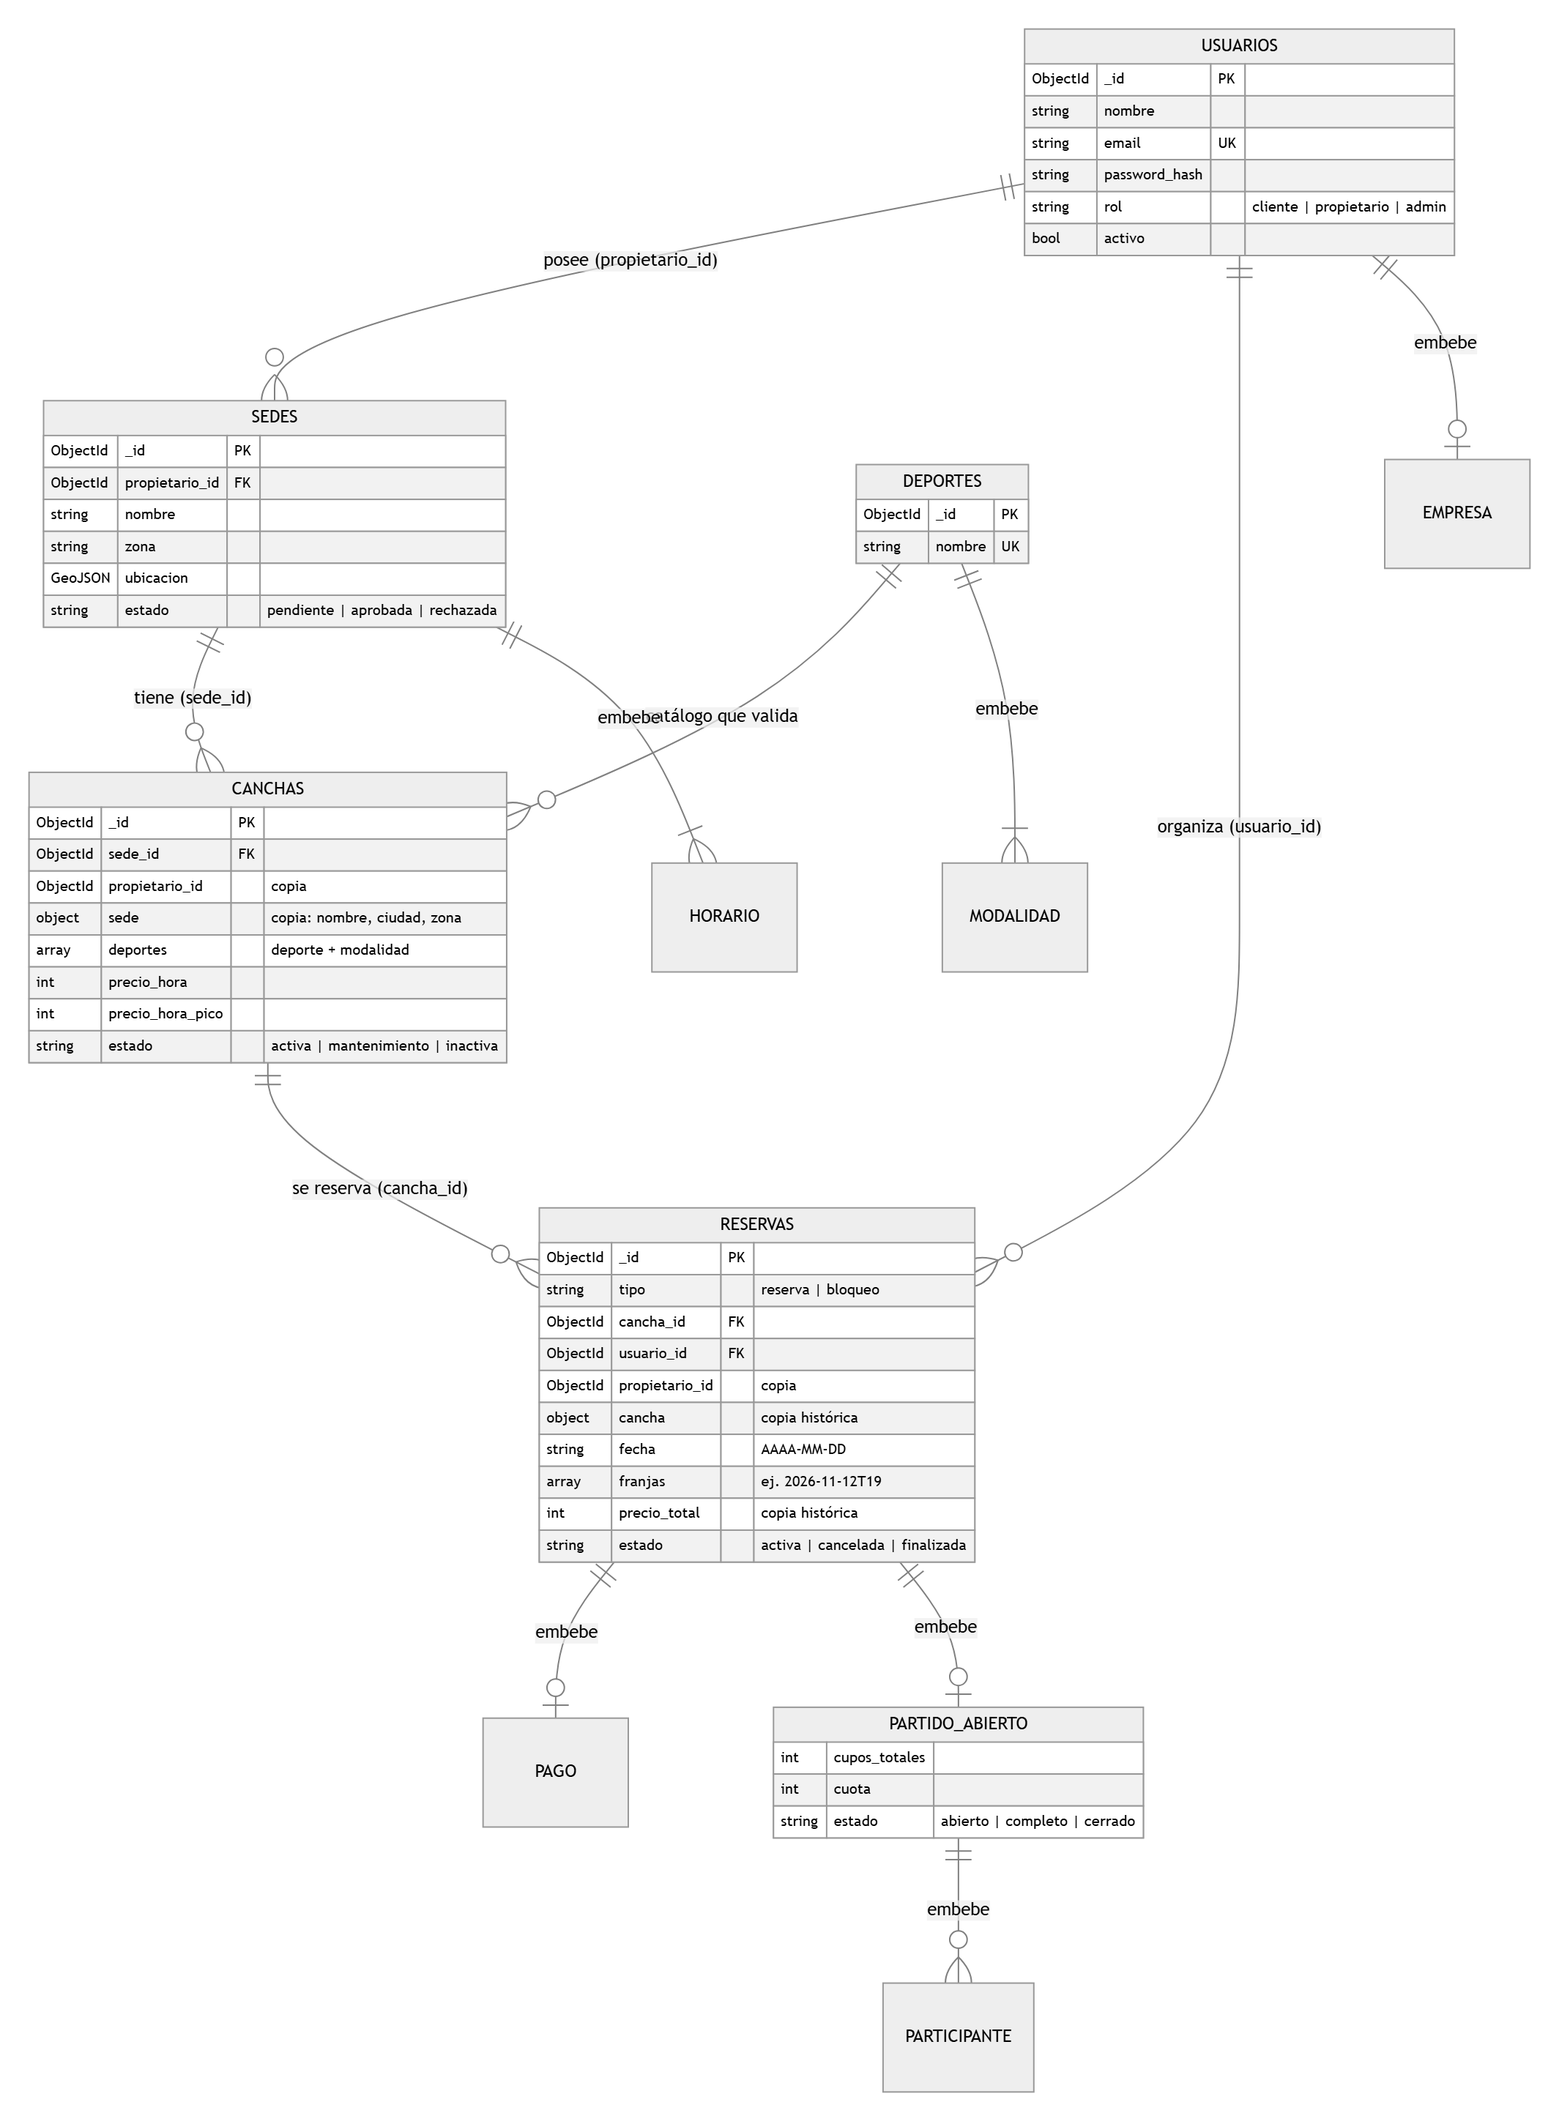
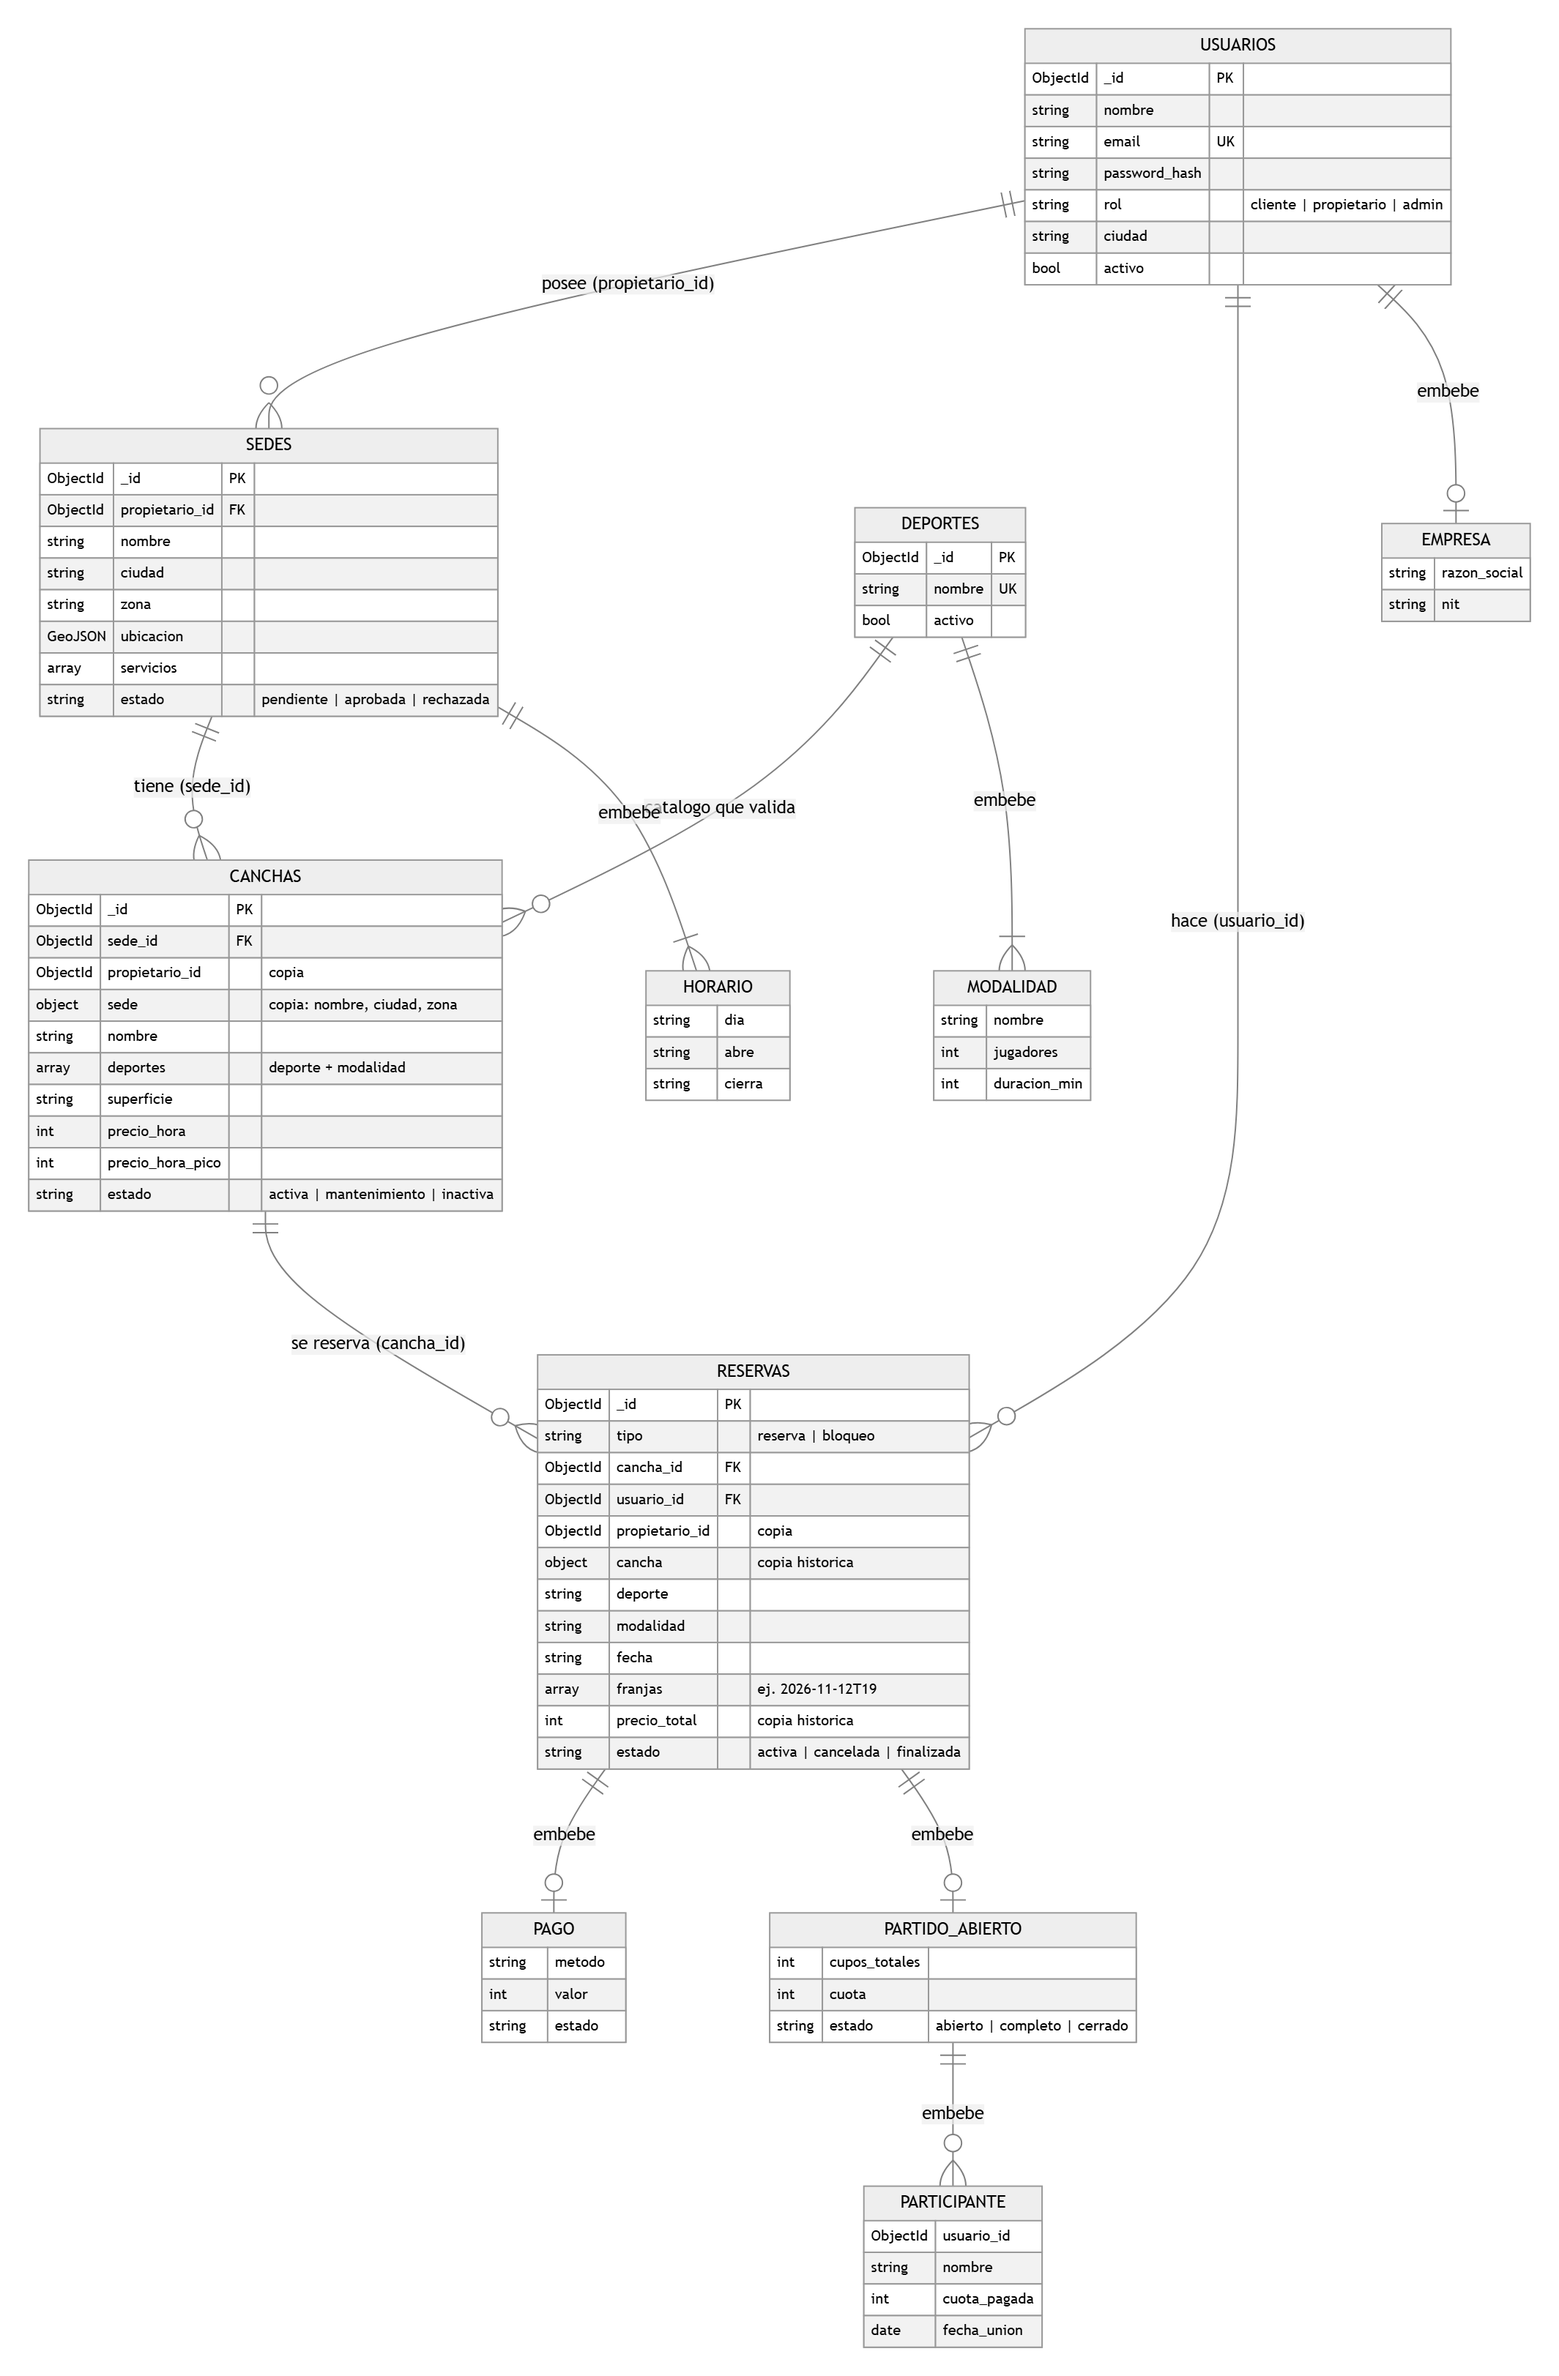
Documento tecnico: modelo de datos completo y evidencia E2
El diagrama del documento ahora es el mismo de ModeloDeDatos.md (con empresa, horario, modalidad y pago). Se agrega la captura de la validacion $jsonSchema.

diff --git a/docs/DocumentoTecnico.md b/docs/DocumentoTecnico.md
@@ -85,9 +85,9 @@ flowchart LR
 erDiagram
     USUARIOS ||--o{ SEDES : "posee (propietario_id)"
     SEDES ||--o{ CANCHAS : "tiene (sede_id)"
-    USUARIOS ||--o{ RESERVAS : "organiza (usuario_id)"
+    USUARIOS ||--o{ RESERVAS : "hace (usuario_id)"
     CANCHAS ||--o{ RESERVAS : "se reserva (cancha_id)"
-    DEPORTES ||--o{ CANCHAS : "catálogo que valida"
+    DEPORTES ||--o{ CANCHAS : "catalogo que valida"
     USUARIOS ||--o| EMPRESA : "embebe"
     DEPORTES ||--|{ MODALIDAD : "embebe"
     SEDES ||--|{ HORARIO : "embebe"
@@ -101,22 +101,46 @@ erDiagram
         string email UK
         string password_hash
         string rol "cliente | propietario | admin"
+        string ciudad
         bool activo
+    }
+    EMPRESA {
+        string razon_social
+        string nit
+    }
+    DEPORTES {
+        ObjectId _id PK
+        string nombre UK
+        bool activo
+    }
+    MODALIDAD {
+        string nombre
+        int jugadores
+        int duracion_min
     }
     SEDES {
         ObjectId _id PK
         ObjectId propietario_id FK
         string nombre
+        string ciudad
         string zona
         GeoJSON ubicacion
+        array servicios
         string estado "pendiente | aprobada | rechazada"
+    }
+    HORARIO {
+        string dia
+        string abre
+        string cierra
     }
     CANCHAS {
         ObjectId _id PK
         ObjectId sede_id FK
         ObjectId propietario_id "copia"
         object sede "copia: nombre, ciudad, zona"
+        string nombre
         array deportes "deporte + modalidad"
+        string superficie
         int precio_hora
         int precio_hora_pico
         string estado "activa | mantenimiento | inactiva"
@@ -127,22 +151,33 @@ erDiagram
         ObjectId cancha_id FK
         ObjectId usuario_id FK
         ObjectId propietario_id "copia"
-        object cancha "copia histórica"
-        string fecha "AAAA-MM-DD"
+        object cancha "copia historica"
+        string deporte
+        string modalidad
+        string fecha
         array franjas "ej. 2026-11-12T19"
-        int precio_total "copia histórica"
+        int precio_total "copia historica"
         string estado "activa | cancelada | finalizada"
     }
-    DEPORTES {
-        ObjectId _id PK
-        string nombre UK
+    PAGO {
+        string metodo
+        int valor
+        string estado
     }
     PARTIDO_ABIERTO {
         int cupos_totales
         int cuota
         string estado "abierto | completo | cerrado"
     }
+    PARTICIPANTE {
+        ObjectId usuario_id
+        string nombre
+        int cuota_pagada
+        date fecha_union
+    }
 ```
+
+> Diagrama completo del modelo: las 5 colecciones con sus campos y los subdocumentos embebidos (empresa, horario, modalidad, pago, partido abierto y participante). Es el mismo de `docs/ModeloDeDatos.md`.
 
 ### 5.1 Colecciones
 
@@ -357,7 +392,7 @@ Capturas tomadas el 10 de noviembre de 2026. Las de la interfaz usan los datos d
 | # | Evidencia | Dónde |
 |---|---|---|
 | E1 | Cluster de Atlas y las 5 colecciones con datos | Texto abajo · captura de Atlas pendiente |
-| E2 | Validación `$jsonSchema` rechazando un documento | `[[CAPTURA: F2 - Validacion rechaza documento]]` |
+| E2 | Validación `$jsonSchema` rechazando un documento | [Imagen E2](evidencias/E2-ValidacionRechaza.png) |
 | E3 | Índices de `reservas`, con `ux_cancha_franja_activa` | Texto abajo |
 | E4 | Índice de Atlas Search en estado READY | `[[CAPTURA: Atlas → Search]]` |
 | E5 | `.env` ignorado por Git | Texto abajo |
@@ -394,6 +429,10 @@ $ git check-ignore -v backend/.env
 $ git ls-files | grep -c '\.env$'
 0
 ```
+
+**E2. La base rechaza un documento inválido.** Desde la consola de Compass conectada a Atlas se intentó insertar un usuario sin los campos obligatorios, con un correo inválido y un rol que no existe. El servidor respondió `Document failed validation`: la regla `$jsonSchema` con `validationLevel: strict` actúa en la base, aunque nadie pase por la API.
+
+![E2. $jsonSchema rechazando un documento](evidencias/E2-ValidacionRechaza.png)
 
 **E7. Reserva cruzada rechazada.** Desde `/docs` se intentó reservar la Pista 2 del Pádel Club Chapinero el 11 de noviembre a las 3 p. m., hora que ya estaba reservada. La API respondió **409 "Ese horario ya está ocupado en esta cancha"**. En Atlas siguió habiendo una sola reserva en esa franja y 964 en total: el índice único impidió la escritura.
 
